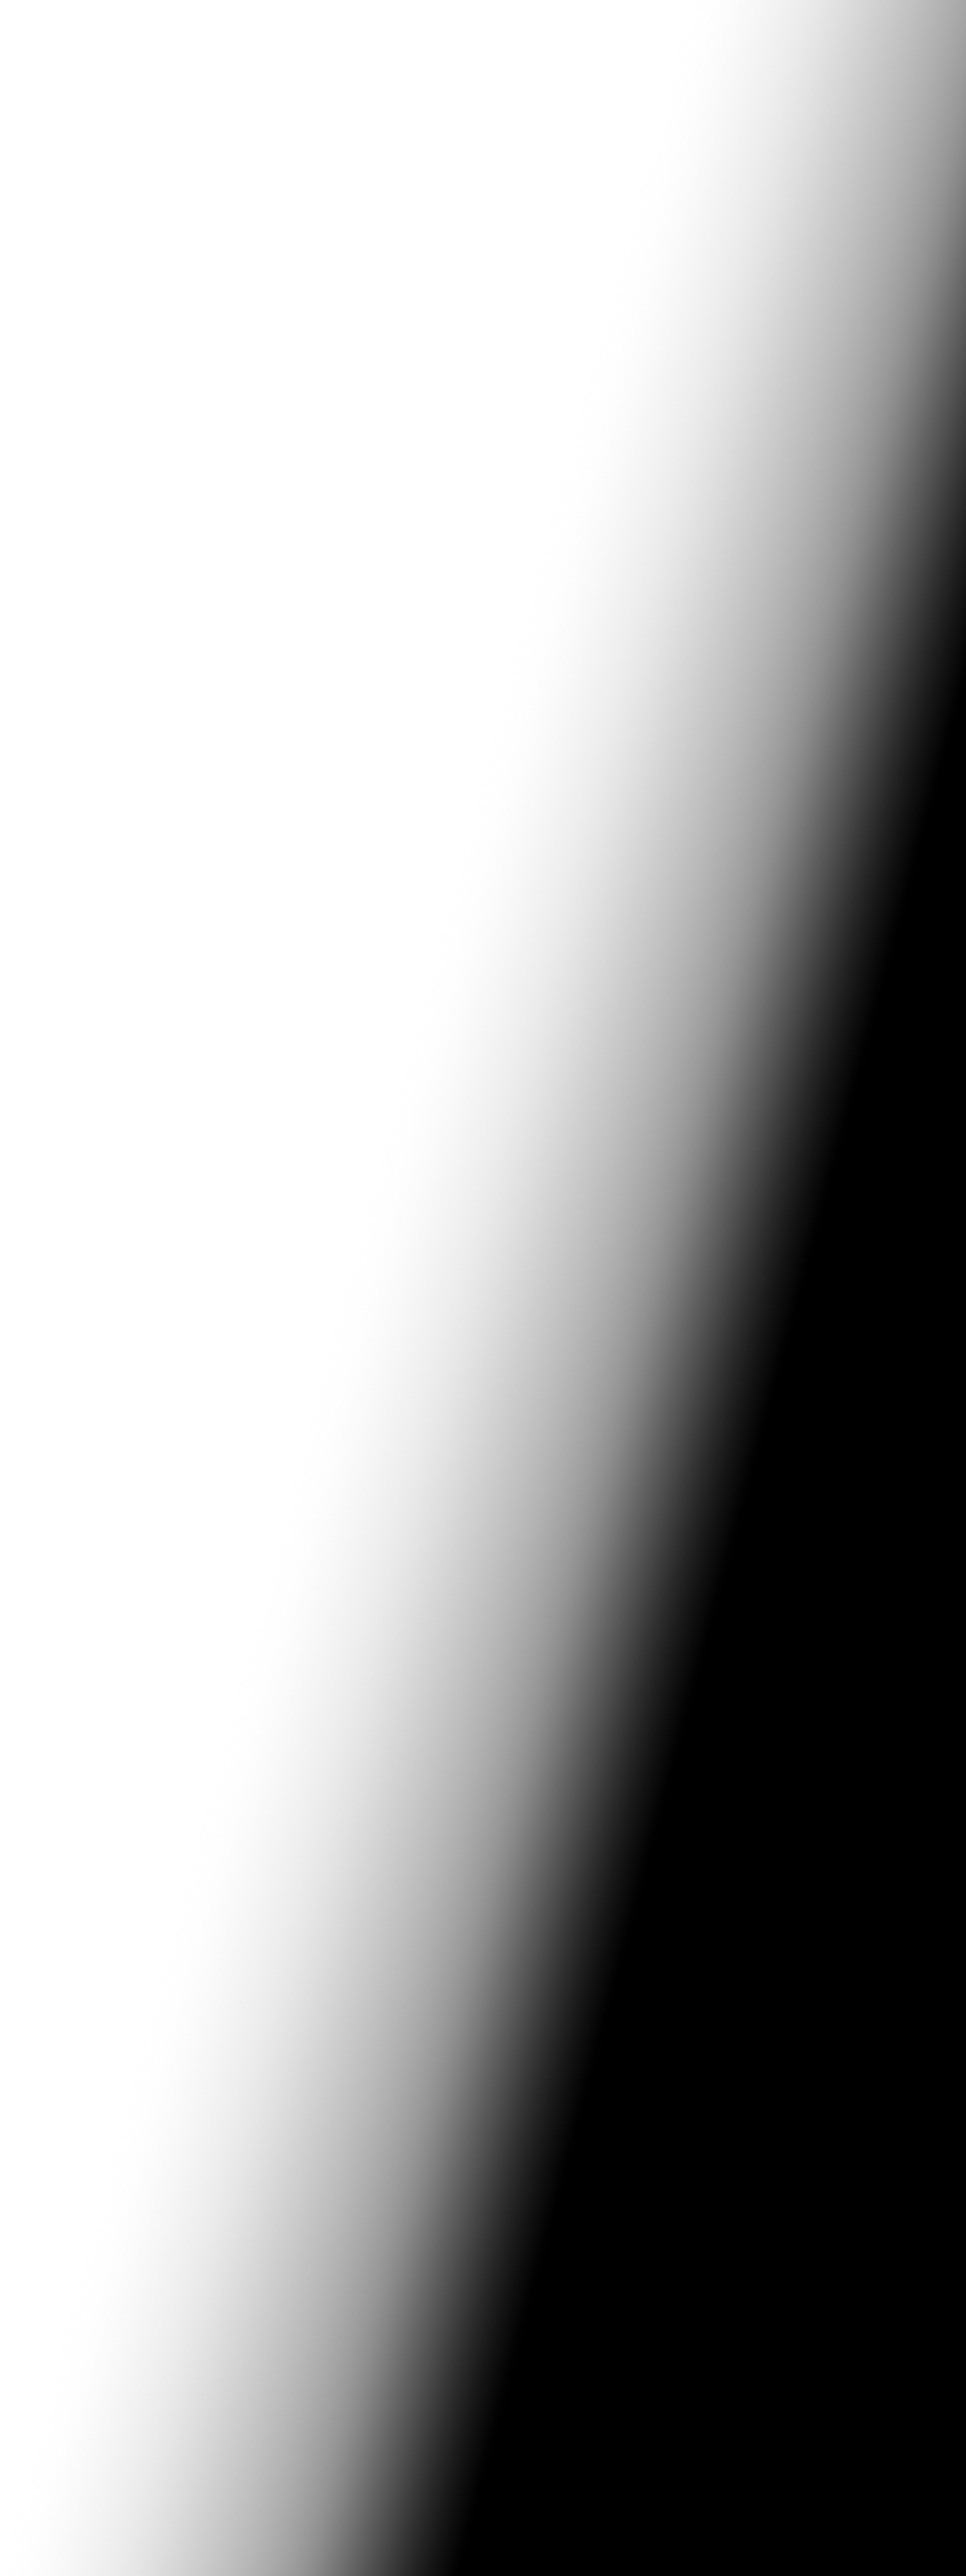
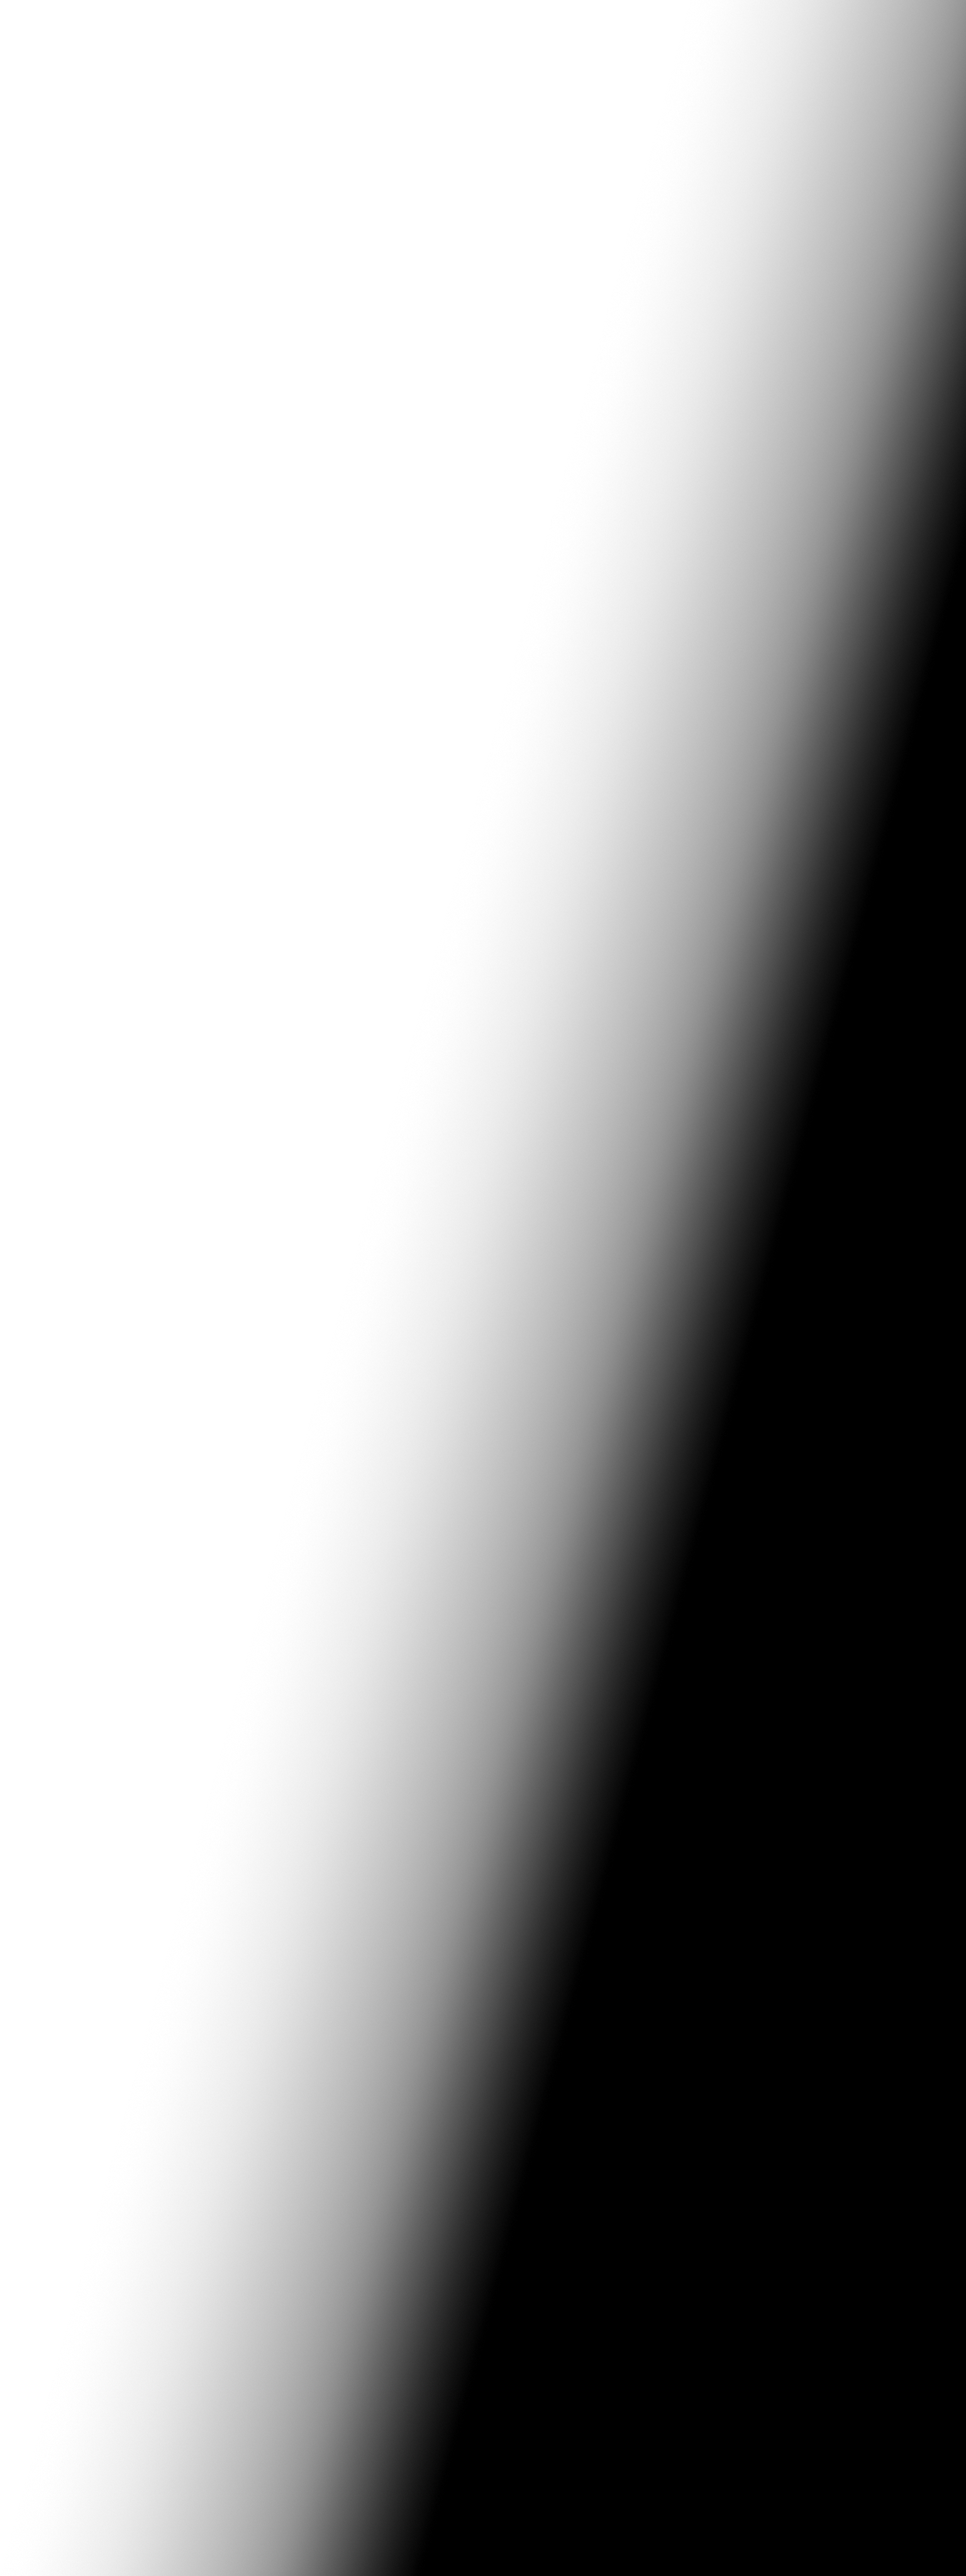
a

Changed region(s): [[0.3125, 0.0312, 1.0, 1.0]]

diff --git a/app/globals.css b/app/globals.css
@@ -113,6 +113,8 @@ p, h1, h2, h3 { margin: 0; }
 .wordmark { font-family: "Noto Serif SC", "Songti SC", SimSun, serif; font-size: 27px; font-weight: 700; font-synthesis: none; letter-spacing: .04em; text-decoration: none; }
 .wordmark-english { font-family: var(--serif); font-weight: 400; letter-spacing: -1px; }
 .wordmark, .contact-link { display: inline-flex; align-items: flex-start; column-gap: 6px; }
+.wordmark { column-gap: 0; }
+.wordmark:not(.wordmark-english) .link-label { letter-spacing: 0; }
 .wordmark .link-label, .contact-link .link-label, .wordmark .link-arrow, .contact-link .link-arrow { line-height: 1; text-box-trim: trim-both; text-box-edge: cap alphabetic; }
 .link-label { min-width: 0; }
 .wordmark .link-arrow, .contact-link .link-arrow { flex-shrink: 0; }
@@ -124,7 +126,7 @@ p, h1, h2, h3 { margin: 0; }
 }
 @keyframes site-color-wave {
   from { --wave-x: calc(-76.5 * var(--wave-unit)); }
-  to { --wave-x: calc(var(--wave-travel, 100vw) + 76.5 * var(--wave-unit)); }
+  to { --wave-x: calc(127.5 * var(--wave-unit)); }
 }
 /* The decorative wave intentionally runs regardless of reduced-motion preference. */
 @media screen and (forced-colors: none) {
@@ -134,7 +136,7 @@ p, h1, h2, h3 { margin: 0; }
   :root[data-color-wave="ready"] .site-footer::before {
     /* One shared curve: a desktop 51vw center plus two 51vw fades, scaled on smaller screens.
        Each fade uses 64 intervals instead of coarse, rounded color stops. */
-    --wave-paint: linear-gradient(105deg in oklab,
+    --wave-paint: repeating-linear-gradient(105deg in oklab,
       var(--wave-base) calc(var(--wave-x) - var(--wave-origin, 0px) - 76.5 * var(--wave-unit)),
       color-mix(in oklab, var(--accent-surface) 0.003726%, var(--wave-base)) calc(var(--wave-x) - var(--wave-origin, 0px) - 75.703125 * var(--wave-unit)),
       color-mix(in oklab, var(--accent-surface) 0.029105%, var(--wave-base)) calc(var(--wave-x) - var(--wave-origin, 0px) - 74.90625 * var(--wave-unit)),
@@ -264,7 +266,8 @@ p, h1, h2, h3 { margin: 0; }
       color-mix(in oklab, var(--accent-surface) 0.095891%, var(--wave-base)) calc(var(--wave-x) - var(--wave-origin, 0px) + 74.109375 * var(--wave-unit)),
       color-mix(in oklab, var(--accent-surface) 0.029105%, var(--wave-base)) calc(var(--wave-x) - var(--wave-origin, 0px) + 74.90625 * var(--wave-unit)),
       color-mix(in oklab, var(--accent-surface) 0.003726%, var(--wave-base)) calc(var(--wave-x) - var(--wave-origin, 0px) + 75.703125 * var(--wave-unit)),
-      var(--wave-base) calc(var(--wave-x) - var(--wave-origin, 0px) + 76.5 * var(--wave-unit))
+      var(--wave-base) calc(var(--wave-x) - var(--wave-origin, 0px) + 76.5 * var(--wave-unit)),
+      var(--wave-base) calc(var(--wave-x) - var(--wave-origin, 0px) + 127.5 * var(--wave-unit))
     );
   }
   :root[data-color-wave="ready"] .disclosure-toggle::before,
@@ -275,10 +278,11 @@ p, h1, h2, h3 { margin: 0; }
   @supports (background-clip: text) or (-webkit-background-clip: text) {
     :root[data-color-wave="ready"] :is(.disclosure-toggle .section-label, .site-footer p, .language-switch) {
       /* Inverse text switches at a contrast threshold, avoiding gray-on-gray. */
-      --inverse-paint: linear-gradient(105deg,
+      --inverse-paint: repeating-linear-gradient(105deg,
+        var(--ink) calc(var(--wave-x) - var(--wave-origin) - 76.5 * var(--wave-unit)),
         var(--ink) calc(var(--wave-x) - var(--wave-origin) - 50.2 * var(--wave-unit)),
         var(--paper) 0 calc(var(--wave-x) - var(--wave-origin) + 50.2 * var(--wave-unit)),
-        var(--ink) 0);
+        var(--ink) 0 calc(var(--wave-x) - var(--wave-origin) + 127.5 * var(--wave-unit)));
       background-image: var(--inverse-paint);
       background-origin: border-box;
       -webkit-background-clip: text;
@@ -312,7 +316,7 @@ p, h1, h2, h3 { margin: 0; }
 .site-nav a:hover { color: var(--accent); text-decoration: underline; text-underline-offset: 9px; }
 .intro { padding: 96px 0 80px 192px; }
 .home-intro { position: relative; isolation: isolate; }
-.hero-art { --photo-fade-midpoint: .3361598065; position: absolute; top: 0; bottom: 0; right: -56px; width: 54%; pointer-events: none; clip-path: inset(0 4% 0 0); transform: translateY(-20px); mask-image: url("./masks/photo-desktop.png"); mask-size: 100% auto; mask-position: left bottom; mask-repeat: no-repeat; }
+.hero-art { --photo-fade-midpoint: .3084760577; position: absolute; top: 0; bottom: 0; right: -56px; width: 54%; pointer-events: none; clip-path: inset(0 4% 0 0); transform: translateY(-20px); mask-image: url("./masks/photo-desktop.png"); mask-size: 100% auto; mask-position: left bottom; mask-repeat: no-repeat; }
 .hero-photo { display: block; width: 100%; height: 100%; object-fit: cover; object-position: 52% 48%; filter: saturate(.9) contrast(.98); opacity: .86; }
 .hero-heading, .hero-content { position: relative; z-index: 1; max-width: 560px; }
 .eyebrow, .section-label { font-family: var(--sans); font-size: var(--type-small); font-weight: 500; line-height: 1.6; letter-spacing: 0; }
@@ -416,14 +420,16 @@ html:lang(zh) .news-story h3:not([lang="en"]) { line-height: 1.4; letter-spacing
   html { --header-height: 72px; --type-title: clamp(48px, 5.5vw, 64px); }
   .site-shell { width: calc(100% - clamp(64px, 8vw, 96px)); }
   .site-header, .editorial-section, .site-footer { margin-right: 0; }
-  .intro { padding: 48px 0; }
-  .home-intro { display: grid; grid-template-columns: minmax(0, 1fr) minmax(0, .85fr); gap: 32px; align-items: center; }
+  .intro { padding: 32px 0 40px; }
+  .home-intro { display: grid; grid-template-columns: minmax(0, 1.15fr) minmax(0, 1fr); gap: 24px 32px; align-items: center; }
   .hero-heading { grid-column: 1; grid-row: 1; max-width: none; }
-  .hero-art { --photo-fade-midpoint: .14; position: relative; grid-column: 2; grid-row: 1; inset: auto; right: calc(0px - clamp(32px, 4vw, 48px)); width: 100%; height: 340px; margin: 0; clip-path: none; transform: none; mask-image: url("./masks/photo-tablet.png"); mask-size: 100% auto; mask-repeat: no-repeat; }
+  .hero-art { --photo-fade-midpoint: .14; position: absolute; grid-column: 2; grid-row: 1 / 3; inset: 0 calc(0px - clamp(32px, 4vw, 48px)) -40px 0; width: auto; height: auto; margin: 0; clip-path: none; transform: none; mask-image: url("./masks/photo-tablet.png"); mask-size: 100% auto; mask-repeat: no-repeat; }
   .hero-photo { object-position: 50% 46%; opacity: .9; }
-  .hero-content { grid-column: 1 / -1; grid-row: 2; width: 100%; max-width: 688px; }
+  .hero-content { grid-column: 1; grid-row: 2; width: 100%; max-width: 688px; }
   .home-intro .intro-copy { max-width: none; margin-top: 0; }
-  .lead { font-size: 22px; }
+  .home-intro .intro-copy { max-width: 64ch; }
+  .home-intro .text-links { margin-top: 24px; }
+  .lead { font-size: 20px; max-width: 32ch; }
   .editorial-section { grid-template-columns: minmax(0, 1fr); gap: 24px; padding: 40px 0; }
   .editorial-section.home-disclosure { --disclosure-space: 38px; --disclosure-indent: 0px; --disclosure-bleed: clamp(32px, 4vw, 48px); }
   .section-label { display: flex; justify-content: space-between; }
@@ -434,9 +440,9 @@ html:lang(zh) .news-story h3:not([lang="en"]) { line-height: 1.4; letter-spacing
   .contact-link + .contact-link { margin-top: 0; }
 }
 @media screen and (min-width: 541px) and (max-width: 700px) {
-  .home-intro { grid-template-columns: minmax(0, 1fr); gap: 24px; }
-  .hero-heading, .hero-art, .hero-content { grid-column: 1; grid-row: auto; }
-  .hero-art { height: 320px; }
+  .home-intro { grid-template-columns: minmax(0, 1.5fr) minmax(0, 1fr); gap: 24px 20px; }
+  .home-intro h1 { font-size: 40px; }
+  .home-intro .lead { font-size: 19px; }
 }
 @media (max-width: 540px) {
   html { --wave-unit: .75vw; --wave-duration: 77s; --wave-delay: -3.562281723s; }
@@ -481,5 +487,5 @@ html:lang(zh) .news-story h3:not([lang="en"]) { line-height: 1.4; letter-spacing
 }
 
 /* Underline only the name, never its language-switch arrow. */
-.site-shell a.wordmark:is(:hover, :focus-visible) { text-decoration-line: none; }
-.site-shell a.wordmark:is(:hover, :focus-visible) .link-label { text-decoration-line: underline; text-decoration-thickness: 1px; text-underline-offset: 5px; }
+.site-shell .site-header a.wordmark:is(:hover, :focus-visible) { text-decoration-line: none; }
+.site-shell .site-header a.wordmark:is(:hover, :focus-visible) .link-label { text-decoration-line: underline; text-decoration-thickness: 1px; text-underline-offset: 5px; }

diff --git a/app/site-color-wave.tsx b/app/site-color-wave.tsx
@@ -32,8 +32,6 @@ export function SiteColorWave({ pageKey }: { pageKey: string }) {
         });
         paintedHeight += rect.height;
       });
-      const travel = root.clientWidth * horizontal + paintedHeight * vertical;
-      root.style.setProperty("--wave-travel", `${travel}px`);
       root.style.setProperty("--wave-width", `${root.clientWidth}px`);
       // Join the photo's midpoint to the rising half of the opening wave.
       // Ignore intervening prose on stacked layouts; it has no painted surface.
@@ -51,7 +49,8 @@ export function SiteColorWave({ pageKey }: { pageKey: string }) {
             center = anchor + 51 * unit;
           }
         }
-        const phase = Math.max(0, Math.min(1, (center + 76.5 * unit) / (travel + 153 * unit)));
+        // One repeating period: 51 units black, 51 white, and two equal fades.
+        const phase = ((center + 76.5 * unit) / (204 * unit)) % 1;
         root.style.setProperty("--wave-delay", `${-duration * phase}s`);
         previousWidth = root.clientWidth;
       }
@@ -66,7 +65,6 @@ export function SiteColorWave({ pageKey }: { pageKey: string }) {
       observer.disconnect();
       window.removeEventListener("resize", align);
       delete root.dataset.colorWave;
-      root.style.removeProperty("--wave-travel");
       root.style.removeProperty("--wave-delay");
       root.style.removeProperty("--wave-width");
     };
